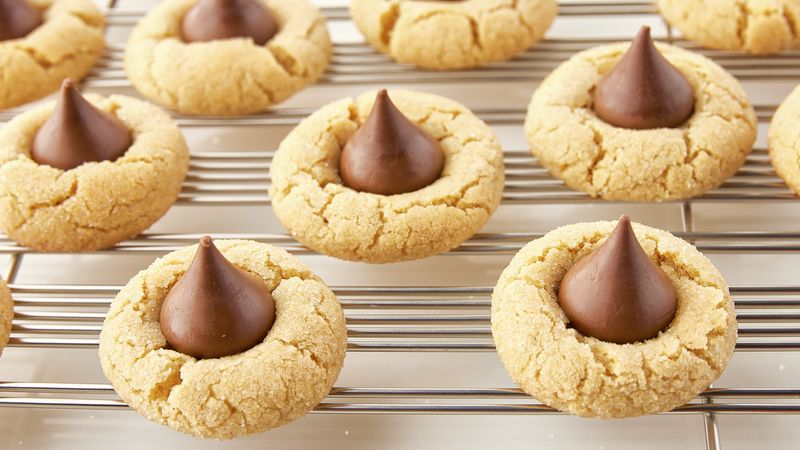
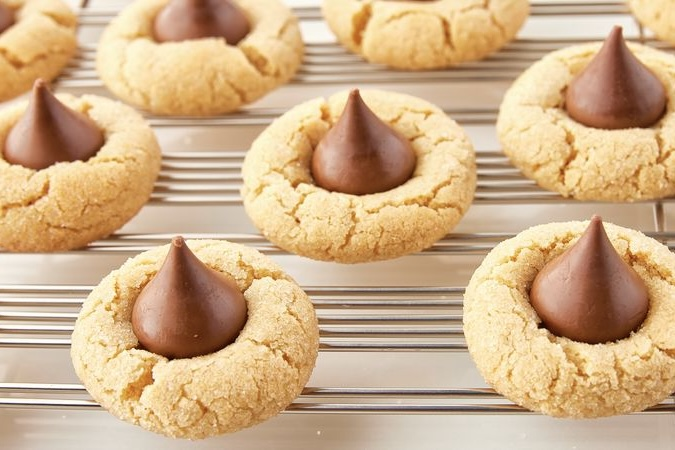
Change 1 photo and changed pic size in recipes list page

diff --git a/public/css/recipe-list.css b/public/css/recipe-list.css
@@ -17,7 +17,8 @@
 }
 
 .recipe-tile-img {
-    max-width: 20em;
+    width: 21em;
+    height: 14em;
     margin: 0 0 1em 0;
     border-radius: 1em;
 }
